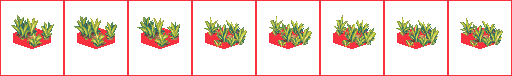
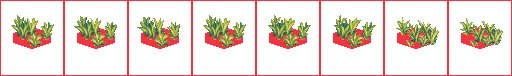
Made a second animation for the second tuft of tall grass.

Changed region(s): [[0.375, 0.2105, 0.625, 0.6316], [0.6562, 0.2105, 0.75, 0.6316]]

diff --git a/src/game/core/data/Image_Data.ts b/src/game/core/data/Image_Data.ts
@@ -52,7 +52,7 @@ export const image_sequence_data_list = {
 	water_ripples_2: ['water_ripples_2a','water_ripples_2b','water_ripples_2c'] as Array<Image_Data_Names>,
 	water_reeds_1: ['water_reeds_1a','water_reeds_1b','water_reeds_1c'] as Array<Image_Data_Names>,
 	scrub_dirt_tall1: ['scrub_dirt_tall1a','scrub_dirt_tall1aa','scrub_dirt_tall1b','scrub_dirt_tall1bb','scrub_dirt_tall1c'] as Array<Image_Data_Names>,
-	scrub_dirt_tall2: ['scrub_dirt_tall2a','scrub_dirt_tall2aa'] as Array<Image_Data_Names>,
+	scrub_dirt_tall2: ['scrub_dirt_tall2a','scrub_dirt_tall2aa', 'scrub_dirt_tall2b', 'scrub_dirt_tall2bb'] as Array<Image_Data_Names>,
 
 	projectile_impact: ['projectile_impact1', 'projectile_impact2', 'projectile_impact3'] as Array<Image_Data_Names>,
 }

diff --git a/src/game/core/data/Image_Data/Tile_Image_Data.ts b/src/game/core/data/Image_Data/Tile_Image_Data.ts
@@ -499,6 +499,33 @@ export const Tile_Image_Data = {
 		pad: 2,
 	},
 
+	"scrub_dirt_tall2b": {
+		url: "bushes2.png",
+		bounds: {
+			x: 257,
+			y: 77,
+			w: 62,
+			h: 74,
+		},
+		frames: 3,
+		frame_duration: 230,
+		ping_pong: true,
+		pad: 2,
+	},
+	"scrub_dirt_tall2bb": {
+		url: "bushes2.png",
+		bounds: {
+			x: 257,
+			y: 77,
+			w: 62,
+			h: 74,
+		},
+		frames: 3,
+		frame_duration: 380,
+		ping_pong: true,
+		pad: 2,
+	},
+
 
 	sand1: {
 		url: "hex-tile-experiment-tiles.png",
